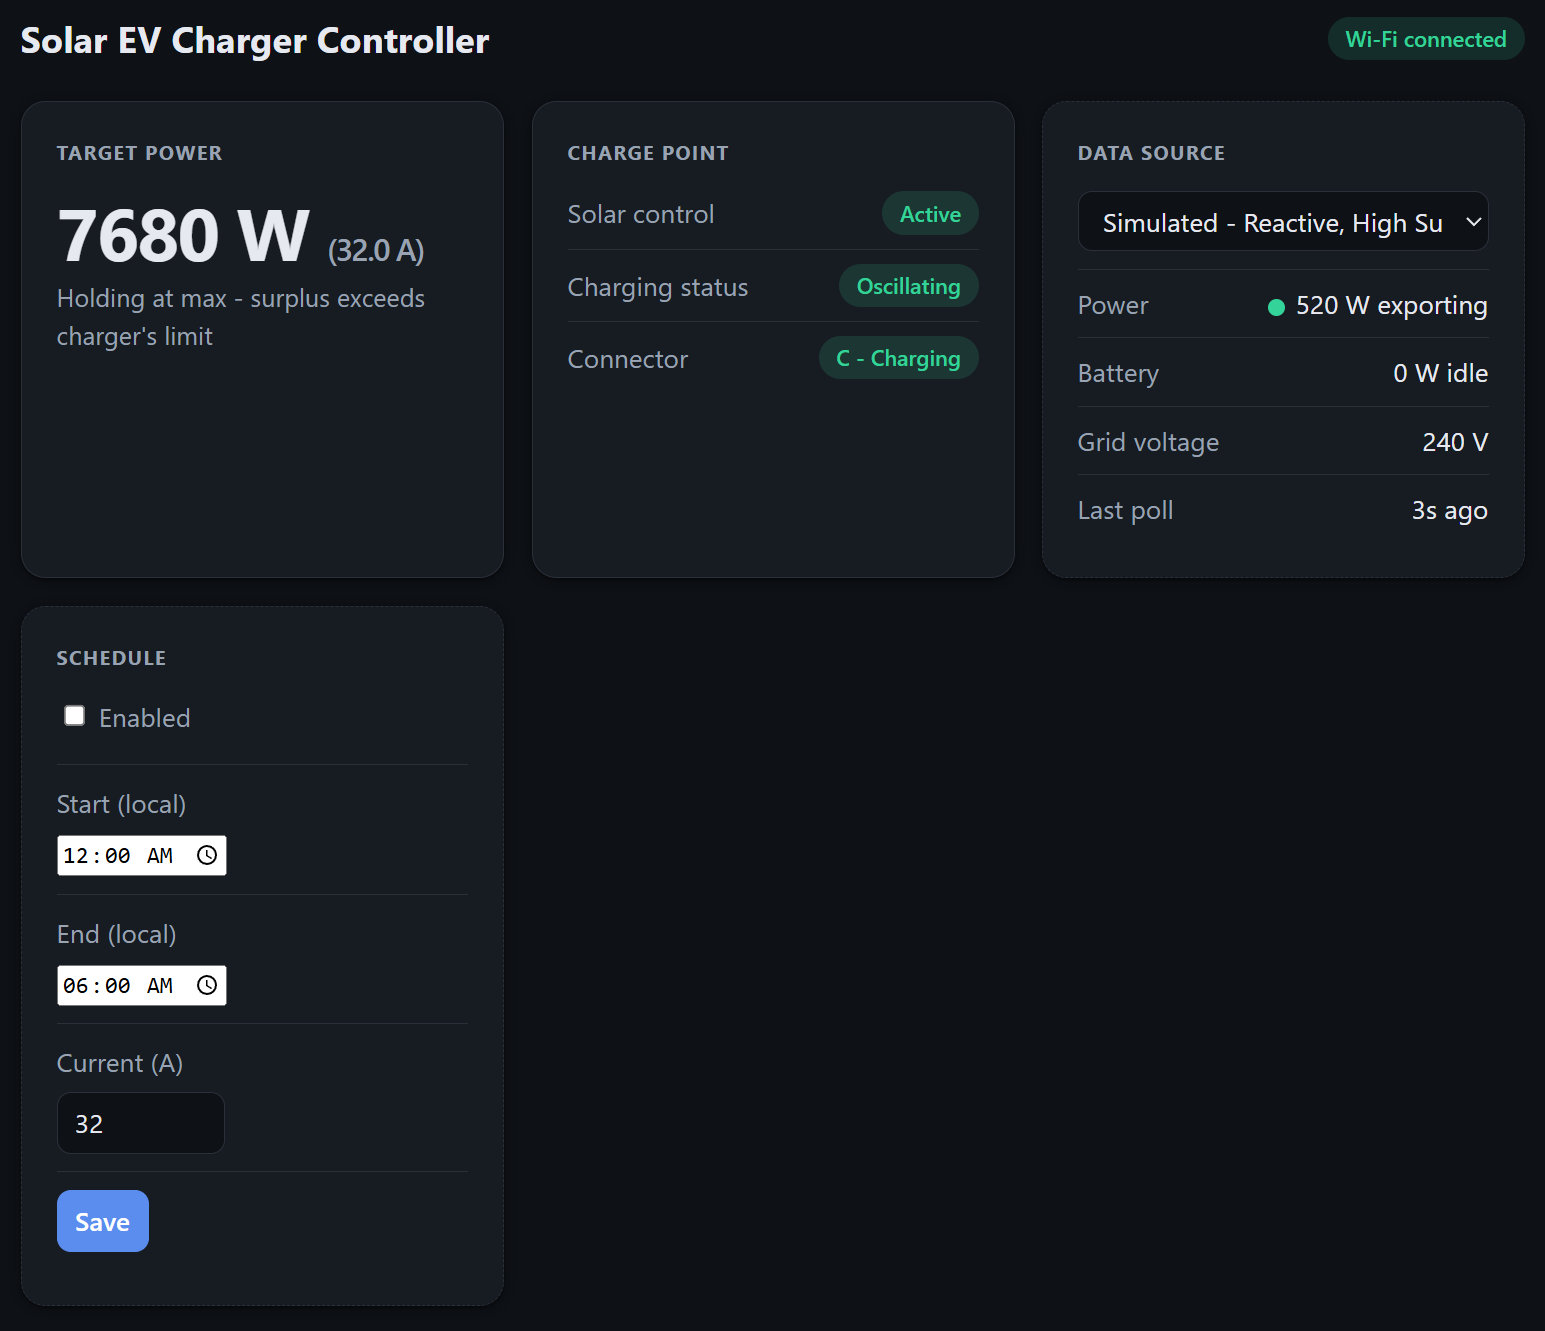
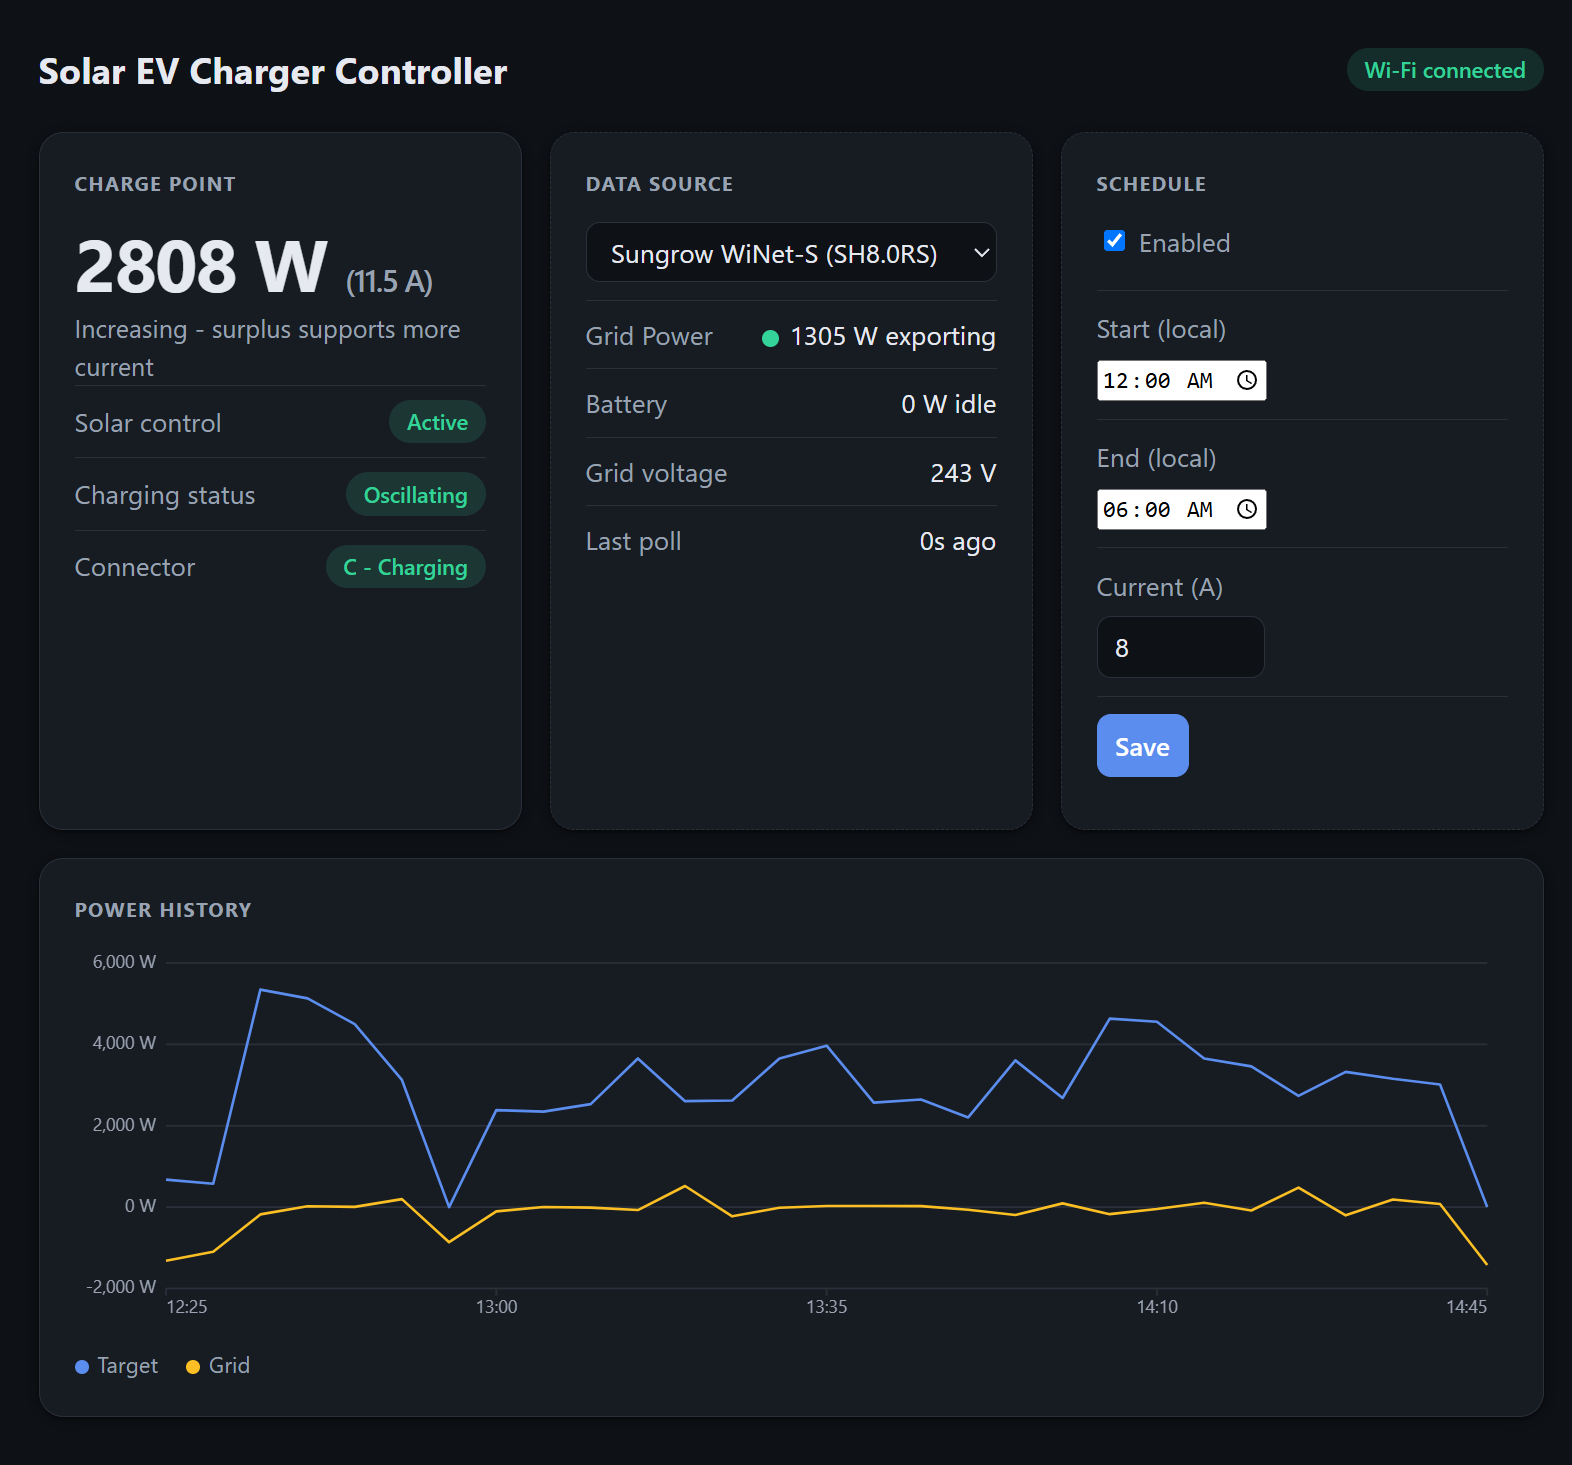
Simplify README control page images
Replace the two-column image table with a single centered control_page_1.png in README.md, update the first screenshot file, and remove the now-redundant img/control_page_2.png. Cleans up the Control page section layout and removes duplicate content.

diff --git a/README.md b/README.md
@@ -144,9 +144,7 @@ Bench-tested through all stages, including the real EVSE and a real vehicle (202
 
 Control page:
 
-| | |
-|---|---|
-| <img src="img/control_page_1.png" width="600" alt="Control page 1"> | <img src="img/control_page_2.png" width="600" alt="Control page 2"> |
+<p align="center"><img src="img/control_page_1.png" width="600" alt="Control page 1"></p>
 
 Bench setup:
 
